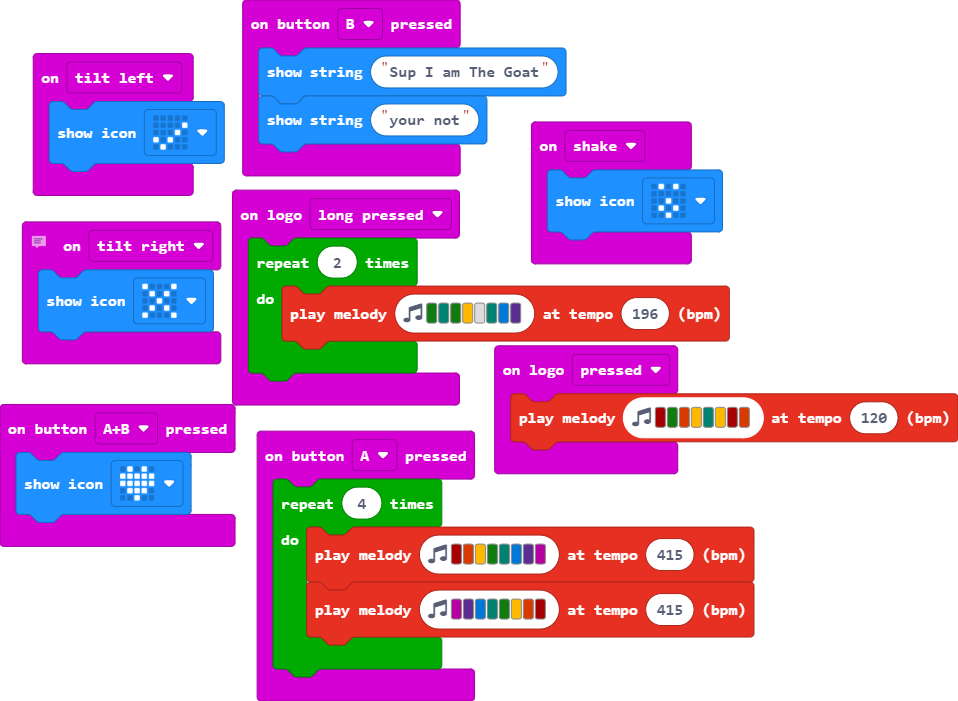
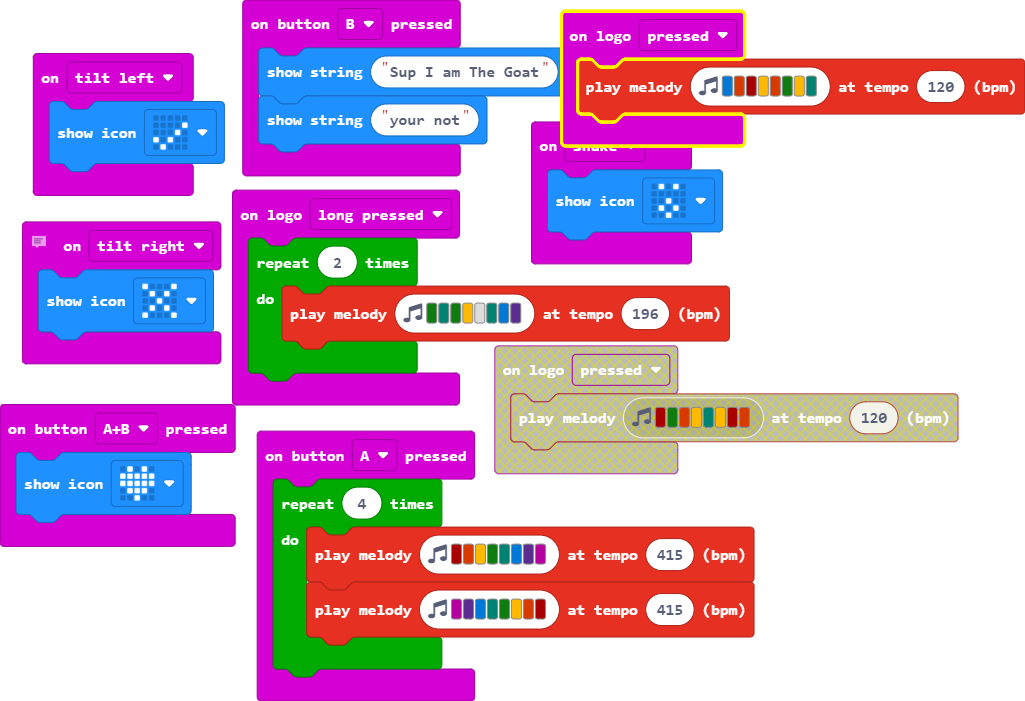
Update main.blocks, main.ts

Changed region(s): [[0.0, 0.0, 1.0, 1.0]]

diff --git a/main.ts b/main.ts
@@ -28,5 +28,5 @@ input.onGesture(Gesture.TiltRight, function () {
     basic.showIcon(IconNames.No)
 })
 input.onLogoEvent(TouchButtonEvent.Pressed, function () {
-    music.playMelody("C5 G B A F A C5 B ", 120)
+    music.playMelody("E B C5 A B G A F ", 120)
 })
